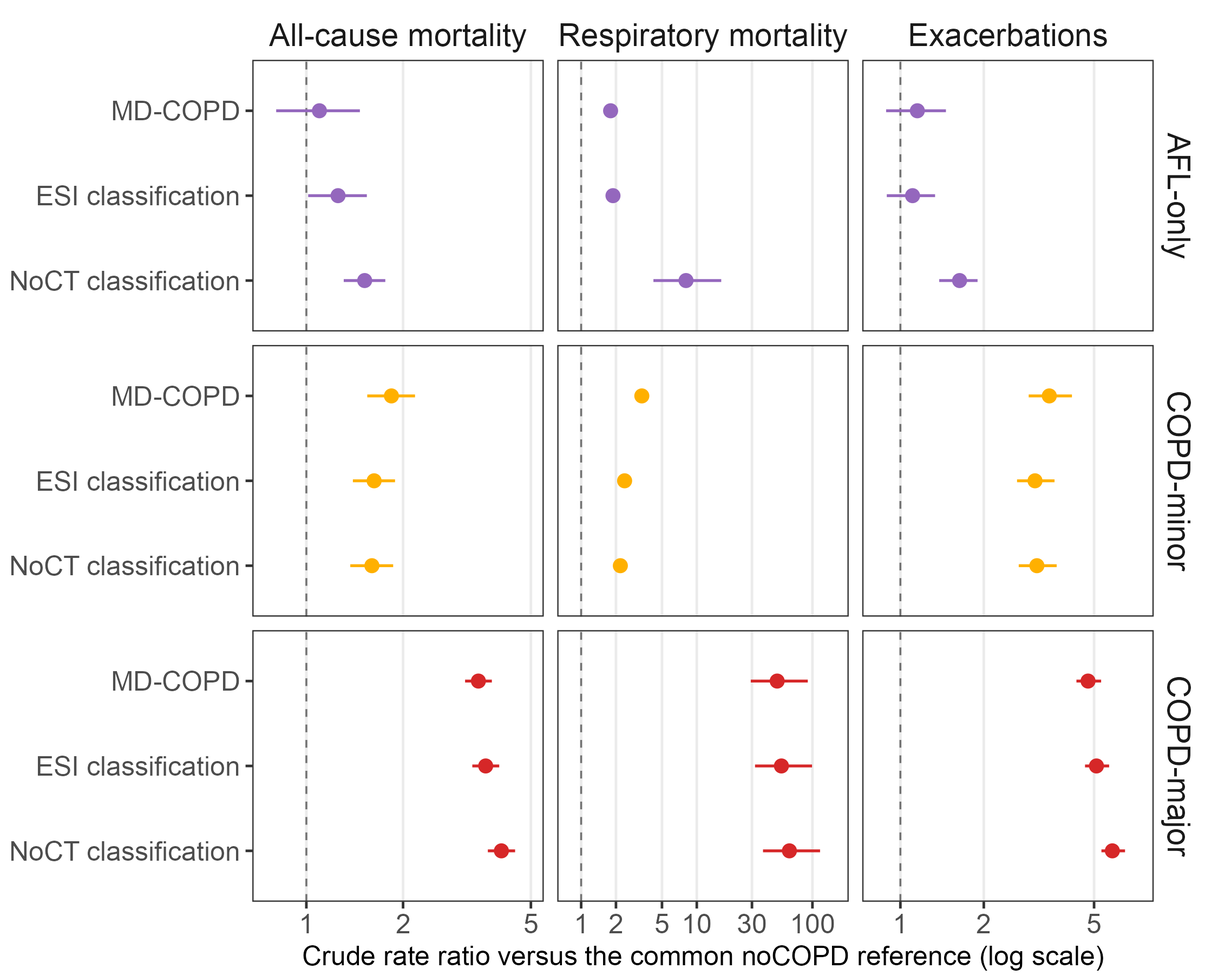
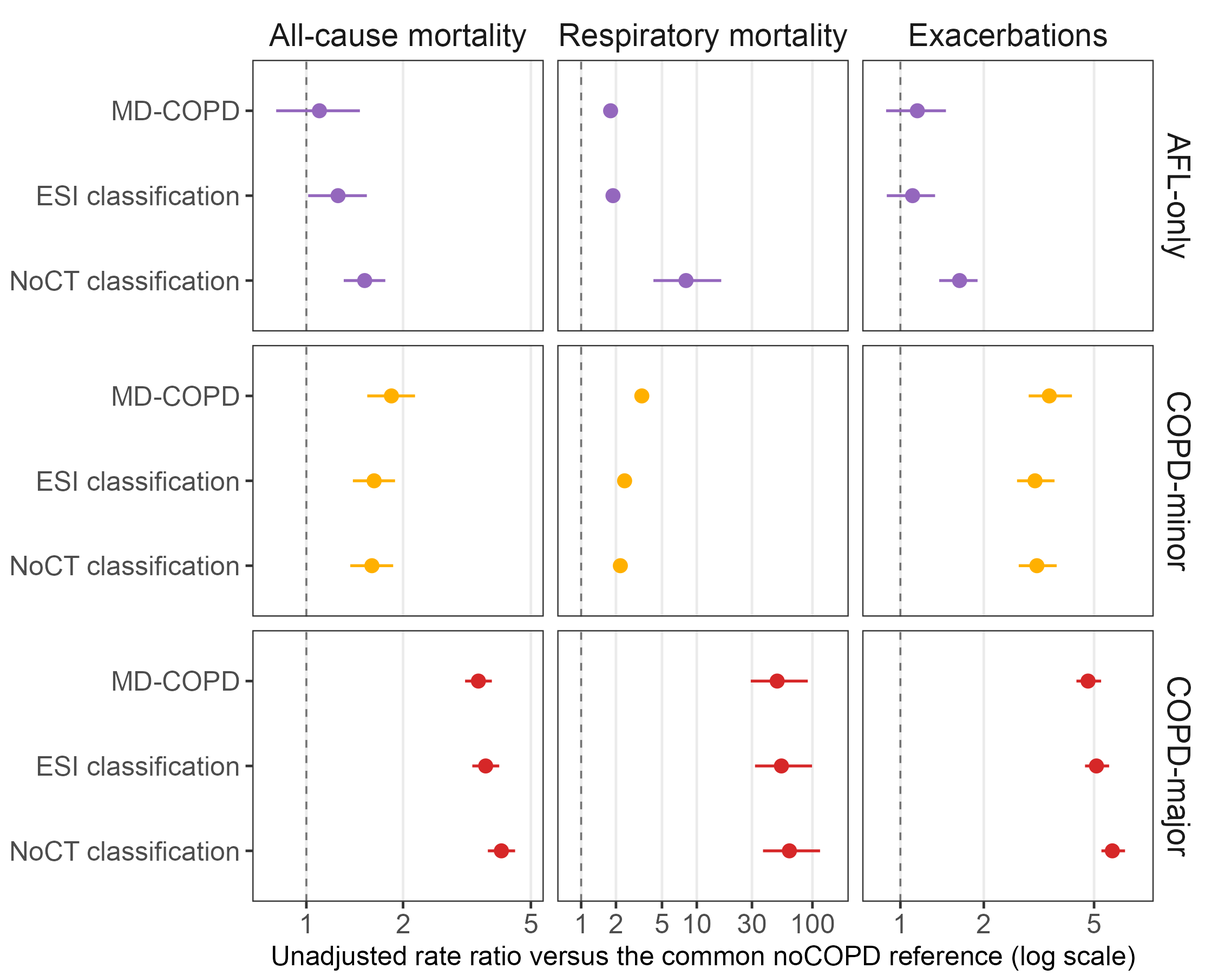
ctfree: COPD minor and major comparisons; P values and 'unadjusted' as Pete writes them
- Results: new paragraph comparing NoCT and ESI with MD-COPD for COPD-minor
  and COPD-major, unadjusted and adjusted, after the AFL-only paragraph;
  Pete's AFL-only edits ported.
- P values spaced ("P = 0.006"), with values below 0.005 shown as
  "P < 0.005", through one shared formatter used by Tables S4, S5, S6 and
  the S3 legend. Supplemental Figure S2 keeps its significance stars.
- "Crude" becomes "unadjusted" in the text, table titles and legends, and
  the Figure 3, 4 and S1 axes and legends.
- verify.R: 224 claims, including the COPD-minor and COPD-major numbers.

Changed region(s): [[0.2178, 0.9644, 0.9333, 0.9956]]

diff --git a/ctfree/build_supplement.py b/ctfree/build_supplement.py
@@ -31,7 +31,7 @@ from docx.enum.text import WD_ALIGN_PARAGRAPH, WD_TAB_ALIGNMENT, WD_TAB_LEADER  
 from docx.oxml import OxmlElement                            # noqa: E402
 from docx.oxml.ns import qn                                  # noqa: E402
 from build_manuscript import (init_document, add_table, legend,  # noqa: E402
-                              emphasis, ASSETS, CATS, read_titlepage,
+                              emphasis, ASSETS, CATS, read_titlepage, fmt_p,
                               t_risk_common_ref, t_discord_risk, Section,
                               add_figure, read_legend, figure_width, FIGS,
                               CONTENT_WIDTH_IN, new_section)
@@ -125,17 +125,17 @@ def supp_methods(doc):
               "considered present for MD-COPD only when definite (score 2). Participants with "
               "missing visual CT scores (n = 4) were considered not to meet the corresponding "
               "imaging criterion.")
-    para(doc, "**Crude outcome comparisons and bootstrap procedures**")
-    para(doc, "Crude rate ratios were calculated by dividing the observed event rate in each "
+    para(doc, "**Unadjusted outcome comparisons and bootstrap procedures**")
+    para(doc, "Unadjusted rate ratios were calculated by dividing the observed event rate in each "
               "diagnostic group (events per 100 person-years) by that of the corresponding reference "
               "group. For mortality, "
               "95% confidence intervals were calculated as exact conditional intervals for the "
               "ratio of two Poisson rates. For respiratory exacerbations, 95% confidence "
               "intervals were obtained from 1,000 subject-level bootstrap resamples, with the "
               "reference rate recalculated in each resample. When either the diagnostic group "
-              "or the reference group had fewer than 10 events, crude rates or rate ratios "
+              "or the reference group had fewer than 10 events, unadjusted rates or rate ratios "
               "were reported without confidence intervals.")
-    para(doc, "For direct comparisons among classifications, the crude event rate in each "
+    para(doc, "For direct comparisons among classifications, the unadjusted event rate in each "
               "NoCT and ESI group was divided by that in the corresponding MD-COPD group (rate "
               "ratio versus MD-COPD), and its adjusted HR or IRR by that of the corresponding "
               "MD-COPD group (ratio of HRs or IRRs). Confidence intervals and P values for these "
@@ -250,7 +250,7 @@ def s6_fev1_decline(doc, num):
                      f"{int(r['n_subj']):,}",
                      f"{float(r['est_mL_yr']):.1f} "
                      f"({float(r['lo']):.1f} to {float(r['hi']):.1f})",
-                     "<0.001" if p_ < 0.001 else f"{p_:.3f}"])
+                     fmt_p(p_)])
         seen.add(sc)
     add_table(doc, ["Classification", "Group", "n",
                     "Difference in decline, mL/yr (95% CI)", "P"],
@@ -287,10 +287,8 @@ def s_crossclass_agreement(doc, num):
                     "Assigned, n", "Sensitivity, %", "PPV, %", "F1"],
               rows, [1.05, 0.78, 0.58, 0.58, 0.58, 0.58, 0.60, 0.62, 0.55, 0.58])
     ps = [float(ag[c]["p_boot"]) for c in CATS]
-    floor_p = 2 / min(int(ag[c]["B_eff"]) for c in CATS)
-    p_txt = (f"P < {floor_p:.3f} in each of the four groups" if all(p == 0 for p in ps)
-             else "; ".join(f"{c} P < {floor_p:.3f}" if p == 0 else f"{c} P = {p:.3f}"
-                            for c, p in zip(CATS, ps)))
+    p_txt = ("P < 0.005 in each of the four groups" if all(p < 0.005 for p in ps)
+             else "; ".join(f"{c} P {'< 0.005' if p < 0.005 else '= ' + fmt_p(p)}" for c, p in zip(CATS, ps)))
     legend(doc, f"Table {num}.",
            "Each CT-free classification cross-classified against MD-COPD. Rows are the "
            "category each classification assigned, columns the MD-COPD category, and the "
@@ -309,7 +307,7 @@ def s_groups_crude(doc, num):
     classification against the common reference, and each CT-free
     classification against MD-COPD by a paired bootstrap. Crude only
     (Pete, 2026-09-11); all three groups (Pete, 2026-09-13)."""
-    heading(doc, f"Supplemental Table {num}. Crude risk of clinical outcomes by diagnostic "
+    heading(doc, f"Supplemental Table {num}. Unadjusted risk of clinical outcomes by diagnostic "
                  "group under each multidimensional classification")
     cru = {(r["schema"], r["category"], r["outcome"]): r for r in load(ASSETS, "consensus_ref_crude.csv")}
     cmp_ = {(r["schema"], r["category"], r["outcome"]): r for r in load(ASSETS, "group_vs_mdcopd.csv")
@@ -339,7 +337,7 @@ def s_groups_crude(doc, num):
                 else:
                     p_ = float(x["p_boot"]); floor = 2 / int(x["B_eff"])
                     vs = ci(x["ratio_of_ratios"], x["lo"], x["hi"])
-                    pt = f"<{floor:.3f}" if p_ == 0 else (f"{p_:.3f}" if p_ < 0.1 else f"{p_:.2f}")
+                    pt = fmt_p(p_)
                 rows.append([lead, NM[s_], f"{int(float(r['events'])):,}", rate, own, vs, pt])
     add_table(doc, ["Outcome", "Classification", "Events", "Rate per 100 person-years",
                     "Rate ratio versus the common reference (95% CI)",
@@ -348,7 +346,7 @@ def s_groups_crude(doc, num):
     legend(doc, f"Table {num}.",
            "Each diagnostic group was compared with the common reference comprising the "
            f"{int(ref['n_cohort']):,} participants classified as noCOPD by all three "
-           "multidimensional classifications. Rates are events per 100 person-years. Crude rate "
+           "multidimensional classifications. Rates are events per 100 person-years. Unadjusted rate "
            "ratios were calculated as the event rate in each group divided by that in the "
            "common reference, with "
            "exact Poisson confidence intervals for mortality and subject-level bootstrap "

diff --git a/ctfree/build_manuscript.py b/ctfree/build_manuscript.py
@@ -159,6 +159,13 @@ def set_cell_margins(tbl, inches):
         el.set(qn("w:type"), "dxa")
 
 
+def fmt_p(p):
+    """P values as Pete writes them (2026-09-24): below 0.005 as '< 0.005',
+    otherwise three decimals under 0.1 and two above."""
+    p = float(p)
+    return "< 0.005" if p < 0.005 else (f"{p:.3f}" if p < 0.1 else f"{p:.2f}")
+
+
 class Section(str):
     """A table row that names the group of rows beneath it, spanning every column."""
 
@@ -309,7 +316,7 @@ def t_risk_common_ref(doc, label="Table 3."):
                 else:
                     p_ = float(x["p_boot"]); floor = 2 / int(x["B_eff"])
                     vs = ci(x["ratio_of_ratios"], x["lo"], x["hi"])
-                    pt = f"<{floor:.3f}" if p_ == 0 else (f"{p_:.3f}" if p_ < 0.1 else f"{p_:.2f}")
+                    pt = fmt_p(p_)
                 rows.append([lead, NM[s_], events, own, vs, pt])
     add_table(doc, ["Outcome", "Classification", "Events",
                     "HR or IRR versus the common reference (95% CI)",
@@ -324,7 +331,7 @@ def t_risk_common_ref(doc, label="Table 3."):
            "additionally adjusted for baseline exacerbation frequency. Ratios versus MD-COPD "
            "divide the HR or IRR of each CT-free classification's group by that of the "
            "corresponding MD-COPD group; 95% confidence intervals and two-sided P values were "
-           "obtained from 1,000 paired subject-level bootstrap resamples. Corresponding crude "
+           "obtained from 1,000 paired subject-level bootstrap resamples. Corresponding unadjusted "
            f"rate ratios are shown in Supplemental Table {supp_num('groups_vs_mdcopd')}. "
            f"{FLAG} Fewer than 10 events in the group, or in either group for comparisons with "
            "MD-COPD; the estimate is shown without a confidence interval or P value. "
@@ -379,7 +386,7 @@ def t_discord_risk(doc, label="Table 4."):
            "strata defined by airflow-limitation status. Among participants with preserved "
            "spirometry, those classified as noCOPD by both approaches served as the reference; "
            "among participants with airflow limitation, those classified as AFL-only by both "
-           "approaches served as the reference. Crude rate ratios are the event rate (events per "
+           "approaches served as the reference. Unadjusted rate ratios are the event rate (events per "
            "100 person-years) in each group divided by that in the corresponding reference; confidence "
            "intervals are exact Poisson intervals for mortality and subject-level bootstrap "
            "intervals for respiratory exacerbations. CT-only-COPD = classified as COPD by "

diff --git a/ctfree/RESULTS.md b/ctfree/RESULTS.md
@@ -15,15 +15,17 @@ Mean ESI increased progressively with visually assessed emphysema severity, from
 
 ## Agreement between MD-COPD and CT-free classifications
 
-Cross-classification with MD-COPD is shown in Figure 2 and Table S3. Overall agreement was 89.0% (8,222 of 9,240) for ESI and 85.0% (7,852 of 9,240) for NoCT (P<0.005). Positive predictive values were >97% for noCOPD and COPD-major with both classifications and were similar for COPD-minor (58.8% with ESI vs 60.4% with NoCT). The largest difference was in AFL-only (35.5% vs 24.8%, respectively; P<0.002). Both CT-free classifications assigned more participants to AFL-only than the 275 assigned by MD-COPD. Of the 543 AFL-only participants under ESI, 193 were AFL-only and 350 were COPD-major under MD-COPD, compared with 275 and 833 of the 1,108 under NoCT (Figure 2; Table S3). Sensitivity for the MD-COPD AFL-only category was 70.2% with ESI and 100% with NoCT, the latter because the NoCT minor criteria are a subset of those of MD-COPD; for COPD-major the corresponding values were 90.8% and 78.1%. Thus, the main difference between the NoCT and ESI classifications was among participants with airflow limitation: without CT criteria, NoCT moved 833 MD-COPD COPD-major participants into AFL-only, whereas ESI kept 483 of them in COPD-major.
+Cross-classification with MD-COPD is shown in Figure 2 and Table S3. Overall agreement was 89.0% (8,222 of 9,240) for ESI and 85.0% (7,852 of 9,240) for NoCT (P < 0.005). Positive predictive values were >97% for noCOPD and COPD-major with both classifications and were similar for COPD-minor (58.8% with ESI vs 60.4% with NoCT). The largest difference was in AFL-only (35.5% vs 24.8%, respectively; P < 0.005). Both CT-free classifications assigned more participants to AFL-only than the 275 assigned by MD-COPD. Of the 543 AFL-only participants under ESI, 193 were AFL-only and 350 were COPD-major under MD-COPD, compared with 275 and 833 of the 1,108 under NoCT (Figure 2; Table S3). Sensitivity for the MD-COPD AFL-only category was 70.2% with ESI and 100% with NoCT, the latter because the NoCT minor criteria are a subset of those of MD-COPD; for COPD-major the corresponding values were 90.8% and 78.1%. Thus, the main difference between the NoCT and ESI classifications was among participants with airflow limitation: without CT criteria, NoCT moved 833 MD-COPD COPD-major participants into AFL-only, whereas ESI kept 483 of them in COPD-major.
 
 ## Clinical outcomes
 
 Median follow-up was 10.8 years for mortality, 10.4 years for exacerbations, and 9.7 years for lung function decline. COPD-minor and COPD-major were associated with increased all-cause mortality and exacerbation risk under all three classifications, with higher estimates in COPD-major (Figure 3; Tables S4 and S5; Figure S1).
 
-Differences among classifications were most apparent in AFL-only. All-cause mortality was 2.29 deaths per 100 person-years in NoCT-defined AFL-only against 1.66 in MD-COPD AFL-only (rate ratio, 1.38; 95% CI, 1.10–1.77; P=0.002), and exacerbations were 19.5 against 13.7 per 100 person-years (rate ratio, 1.42; 95% CI, 1.15–1.79; P<0.002). In ESI-defined AFL-only, the corresponding rates of 1.90 and 13.2 did not differ from MD-COPD (rate ratios, 1.14; 95% CI, 0.91–1.44; P=0.25 and 0.96; 95% CI, 0.78–1.21; P=0.73) (Table S4). After adjustment, exacerbations remained higher in NoCT-defined than in MD-COPD AFL-only (ratio of IRRs, 1.33; 95% CI, 1.07–1.70; P=0.008), whereas the difference in all-cause mortality was no longer significant (ratio of HRs, 1.22; 95% CI, 0.97–1.55; P=0.098); ESI-defined AFL-only again did not differ from MD-COPD (ratio of HRs, 1.03; 95% CI, 0.82–1.31; P=0.79; ratio of IRRs, 0.92; 95% CI, 0.73–1.17; P=0.49) (Table S5; Figure S1). Respiratory deaths were too few for comparison with MD-COPD (2 in MD-COPD, 4 in ESI-defined and 34 in NoCT-defined AFL-only). Removing the CT criteria therefore produced an AFL-only group with higher exacerbation rates and, in crude comparisons, higher mortality than that of MD-COPD, whereas substituting ESI produced a more similar AFL-only group whose risk profile was not significantly different from MD-COPD AFL-only.
+Differences among classifications were most apparent in AFL-only. All-cause mortality was 2.29 deaths per 100 person-years in NoCT-defined AFL-only against 1.66 in MD-COPD AFL-only (rate ratio, 1.38; 95% CI, 1.10–1.77; P < 0.005), and exacerbations were 19.5 against 13.7 per 100 person-years (rate ratio, 1.42; 95% CI, 1.15–1.79; P < 0.005). In ESI-defined AFL-only, the corresponding rates of 1.90 and 13.2 did not differ from MD-COPD (rate ratios, 1.14; 95% CI, 0.91–1.44; P = 0.25 and 0.96; 95% CI, 0.78–1.21; P = 0.73) (Table S4). After adjustment, exacerbations remained higher in NoCT-defined than in MD-COPD AFL-only (ratio of IRRs, 1.33; 95% CI, 1.07–1.70; P = 0.008), whereas the difference in all-cause mortality was no longer significant (ratio of HRs, 1.22; 95% CI, 0.97–1.55; P = 0.098); ESI-defined AFL-only again did not differ from MD-COPD (ratio of HRs, 1.03; 95% CI, 0.82–1.31; P = 0.79; ratio of IRRs, 0.92; 95% CI, 0.73–1.17; P = 0.49) (Table S5; Figure S1). Respiratory deaths were too few for comparison with MD-COPD (2 in MD-COPD, 4 in ESI-defined and 34 in NoCT-defined AFL-only). Removing the CT criteria therefore produced an AFL-only group with higher exacerbation rates and, in unadjusted comparisons, higher mortality than that of MD-COPD, whereas substituting ESI produced a more similar AFL-only group whose risk profile was not significantly different from MD-COPD AFL-only.
 
-Longitudinal FEV₁ decline differed across diagnostic pathways (Table S6). COPD-major showed greater decline than the common noCOPD reference under all three classifications (−5.3, −5.1, and −5.0 mL/yr with MD-COPD, NoCT, and ESI). Greater decline in COPD-minor was observed with MD-COPD (−4.5 mL/yr; P=0.007) but not with NoCT or ESI (−0.1 mL/yr for both), whereas in AFL-only it was observed with NoCT (−4.9 mL/yr) and ESI (−4.3 mL/yr) but not with MD-COPD (−2.7 mL/yr; P=0.22).
+In COPD-minor and COPD-major, the CT-free groups also differed from the corresponding MD-COPD groups, in opposite directions. All-cause mortality and exacerbation rates in COPD-minor were lower under NoCT (rate ratios, 0.87; 95% CI, 0.79–0.95; P = 0.006 and 0.90; 95% CI, 0.83–0.99; P = 0.036) and ESI (0.88; 95% CI, 0.80–0.97; P = 0.008 and 0.89; 95% CI, 0.81–0.98; P = 0.016) than under MD-COPD (Table S4), but not after adjustment (ratios of HRs and IRRs, 0.92 to 0.95; P = 0.096 to 0.27) (Table S5). Respiratory deaths in COPD-minor were too few for comparison with MD-COPD (8 under MD-COPD, 8 under NoCT, and 9 under ESI). In COPD-major, all-cause mortality, respiratory mortality, and exacerbations were higher than under MD-COPD in both unadjusted and adjusted comparisons, by 17% to 29% under NoCT and by 5% to 9% under ESI (all P < 0.005) (Tables S4 and S5). These higher estimates follow from how the CT-free COPD-major groups were formed: removing CT reassigned 833 MD-COPD COPD-major participants to AFL-only under NoCT and 350 under ESI, and the reassigned participants had lower risk than those who remained (all-cause rate ratio versus the common reference, 1.67 for the 833 reassigned under NoCT against 4.05 for the 2,976 who remained).
+
+Longitudinal FEV₁ decline differed across diagnostic pathways (Table S6). COPD-major showed greater decline than the common noCOPD reference under all three classifications (−5.3, −5.1, and −5.0 mL/yr with MD-COPD, NoCT, and ESI). Greater decline in COPD-minor was observed with MD-COPD (−4.5 mL/yr; P = 0.007) but not with NoCT or ESI (−0.1 mL/yr for both), whereas in AFL-only it was observed with NoCT (−4.9 mL/yr) and ESI (−4.3 mL/yr) but not with MD-COPD (−2.7 mL/yr; P = 0.22).
 
 ## Discordant MD-COPD and ESI classifications
 

diff --git a/ctfree/METHODS.md b/ctfree/METHODS.md
@@ -33,7 +33,7 @@ Overall agreement with MD-COPD was compared between NoCT and ESI using McNemar's
 
 Associations with all-cause and respiratory mortality were assessed using Cox proportional hazards models and respiratory exacerbations using negative binomial regression with follow-up time as an offset. Models were adjusted for age, sex, race, current smoking, pack-years, and body mass index; exacerbation models were additionally adjusted for baseline exacerbation frequency.
 
-For comparisons across classifications, AFL-only, COPD-minor, and COPD-major were compared with a common reference group classified as noCOPD by all three multidimensional classifications. Crude rate ratios, the event rate per 100 person-years in each group divided by that in the reference, and adjusted hazard ratios (HRs) or incidence rate ratios (IRRs) were estimated. Each NoCT and ESI group was compared with the corresponding MD-COPD group as a rate ratio for crude event rates and as a ratio of HRs or IRRs for adjusted estimates, with confidence intervals and P values from 1,000 paired subject-level bootstrap resamples.
+For comparisons across classifications, AFL-only, COPD-minor, and COPD-major were compared with a common reference group classified as noCOPD by all three multidimensional classifications. Unadjusted rate ratios, the event rate per 100 person-years in each group divided by that in the reference, and adjusted hazard ratios (HRs) or incidence rate ratios (IRRs) were estimated. Each NoCT and ESI group was compared with the corresponding MD-COPD group as a rate ratio for unadjusted event rates and as a ratio of HRs or IRRs for adjusted estimates, with confidence intervals and P values from 1,000 paired subject-level bootstrap resamples.
 
 Discordance between ESI and MD-COPD was examined separately in participants with and without airflow limitation. Participants classified as noCOPD by both approaches served as the reference group with preserved spirometry, and those classified as AFL-only by both approaches with airflow limitation. ESI and %LAA-950HU were compared between discordant groups using the Wilcoxon rank-sum test and minor-criterion prevalence using Fisher's exact test.
 
@@ -41,4 +41,4 @@ The ability of ESI to discriminate visual emphysema and definite airway wall thi
 
 Annualized FEV₁ change was estimated using linear mixed-effects models with participant-specific random intercepts, adjusted for height, sex, race, age, smoking status, pack-years, and baseline post-bronchodilator FEV₁. Differences between corresponding NoCT and ESI groups were assessed using 1,000 paired subject-level bootstrap resamples.
 
-Additional details on statistical procedures, including confidence-interval estimation for crude outcome comparisons and handling of groups with fewer than 10 events, are provided in the Supplemental Methods. Analyses were performed in R version 4.5.2.
+Additional details on statistical procedures, including confidence-interval estimation for unadjusted outcome comparisons and handling of groups with fewer than 10 events, are provided in the Supplemental Methods. Analyses were performed in R version 4.5.2.

diff --git a/ctfree/figures/figure4_discord_risk_legend.md b/ctfree/figures/figure4_discord_risk_legend.md
@@ -1,3 +1,3 @@
 **Figure 4. Clinical outcomes according to concordance and discordance between MD-COPD and ESI classifications.**
 
-Crude rate ratios for all-cause mortality and exacerbations, with 95% confidence intervals, for the three groups either classification calls COPD, within each stratum of airflow limitation. The crude rate ratio is the event rate (events per 100 person-years) in the group divided by that in the stratum reference. Reference groups are the participants classified as noCOPD by both methods among those with preserved spirometry (top row) and participants classified as AFL-only by both methods among those with airflow limitation (bottom row). Intervals are exact Poisson intervals for deaths and subject-bootstrap intervals for exacerbations. CT-only = diagnosed as COPD under MD-COPD only; ESI-only = diagnosed as COPD under the ESI classification only; Both-COPD = diagnosed as COPD under both; AFL-only = airflow limitation without other criteria. Respiratory mortality is not shown because the numbers of respiratory deaths are too small for estimation.
+Unadjusted rate ratios for all-cause mortality and exacerbations, with 95% confidence intervals, for the three groups either classification calls COPD, within each stratum of airflow limitation. The unadjusted rate ratio is the event rate (events per 100 person-years) in the group divided by that in the stratum reference. Reference groups are the participants classified as noCOPD by both methods among those with preserved spirometry (top row) and participants classified as AFL-only by both methods among those with airflow limitation (bottom row). Intervals are exact Poisson intervals for deaths and subject-bootstrap intervals for exacerbations. CT-only = diagnosed as COPD under MD-COPD only; ESI-only = diagnosed as COPD under the ESI classification only; Both-COPD = diagnosed as COPD under both; AFL-only = airflow limitation without other criteria. Respiratory mortality is not shown because the numbers of respiratory deaths are too small for estimation.

diff --git a/ctfree/figures/figureS1_group_risk_legend.md b/ctfree/figures/figureS1_group_risk_legend.md
@@ -1,3 +1,3 @@
-**Supplemental Figure S1. Crude and adjusted risk of each diagnostic group under the three multidimensional classifications.**
+**Supplemental Figure S1. Unadjusted and adjusted risk of each diagnostic group under the three multidimensional classifications.**
 
-Crude rate ratios (open circles) and adjusted hazard ratios or incidence rate ratios (filled circles), with 95% confidence intervals, for each diagnostic group (rows) under MD-COPD, the ESI classification and the NoCT classification, for all-cause mortality, respiratory mortality and exacerbations (columns), against a common reference of the 3,856 participants assigned to noCOPD by all three classifications. The x axis is on a log scale and differs between columns. Hazard ratios (mortality) and incidence rate ratios (exacerbations) are from models carrying age, sex, race, current smoking status, pack-years and body mass index, with prior exacerbation frequency added for exacerbations. A point drawn without an interval had fewer than 10 events in that group, so no interval was estimated. AFL-only = airflow limitation without other criteria.
+Unadjusted rate ratios (open circles) and adjusted hazard ratios or incidence rate ratios (filled circles), with 95% confidence intervals, for each diagnostic group (rows) under MD-COPD, the ESI classification and the NoCT classification, for all-cause mortality, respiratory mortality and exacerbations (columns), against a common reference of the 3,856 participants assigned to noCOPD by all three classifications. The x axis is on a log scale and differs between columns. Hazard ratios (mortality) and incidence rate ratios (exacerbations) are from models carrying age, sex, race, current smoking status, pack-years and body mass index, with prior exacerbation frequency added for exacerbations. A point drawn without an interval had fewer than 10 events in that group, so no interval was estimated. AFL-only = airflow limitation without other criteria.

diff --git a/ctfree/ABSTRACT.md b/ctfree/ABSTRACT.md
@@ -9,6 +9,6 @@ Objectives. To determine whether the Emphysema Severity Index (ESI), derived fro
 
 Methods. Among 9,240 ever-smokers in COPDGene, we compared MD-COPD with modified classifications in which CT criteria were removed with no replacement (NoCT) or with ESI as a substitute (ESI classification). Risks of mortality, respiratory exacerbations, and longitudinal FEV₁ decline were assessed.
 
-Measurements and Main Results. Among participants with airflow limitation, ESI discriminated visual emphysema and definite airway wall thickening with an AUC of 0.75 for each. The NoCT classification reassigned 833 MD-COPD COPD-major participants to the AFL-only group, compared with only 350 using ESI. Relative to MD-COPD AFL-only, NoCT-defined AFL-only had higher crude all-cause mortality (rate ratio, 1.38; 95% CI, 1.10–1.77) and exacerbation rates (1.42; 95% CI, 1.15–1.79), whereas the ESI-defined AFL-only group did not differ from MD-COPD AFL-only.
+Measurements and Main Results. Among participants with airflow limitation, ESI discriminated visual emphysema and definite airway wall thickening with an AUC of 0.75 for each. The NoCT classification reassigned 833 MD-COPD COPD-major participants to the AFL-only group, compared with only 350 using ESI. Relative to MD-COPD AFL-only, NoCT-defined AFL-only had higher unadjusted all-cause mortality (rate ratio, 1.38; 95% CI, 1.10–1.77) and exacerbation rates (1.42; 95% CI, 1.15–1.79), whereas the ESI-defined AFL-only group did not differ from MD-COPD AFL-only.
 
 Conclusions. When CT is unavailable, removing its criteria from MD-COPD loses clinically relevant information. Incorporating ESI recovers part of this information, particularly among participants with airflow limitation, without requiring a test beyond conventional spirometry.

diff --git a/ctfree/figures/figure2_flow_legend.md b/ctfree/figures/figure2_flow_legend.md
@@ -1,3 +1,3 @@
 **Figure 2. Reclassification of MD-COPD categories by the CT-free classifications.**
 
-(A) Participant flow from MD-COPD (center) to the NoCT classification (left) and the ESI classification (right). Column heights and ribbon widths are proportional to participant counts. Ribbons are colored by MD-COPD category, solid color where the participant changes category and pale where it agrees. (B) The NoCT classification cross-classified against MD-COPD. Rows are MD-COPD categories and columns the NoCT classification; diagonal cells, which agree, are shaded in the category color with depth proportional to count, and off-diagonal cells are white. (C) The ESI classification cross-classified against MD-COPD, laid out as in (B). Overall, the ESI classification agreed with MD-COPD for 8,222 of 9,240 participants (89.0%) and the NoCT classification for 7,852 (85.0%) (McNemar P < 0.001). AFL-only = airflow limitation without other criteria.
+(A) Participant flow from MD-COPD (center) to the NoCT classification (left) and the ESI classification (right). Column heights and ribbon widths are proportional to participant counts. Ribbons are colored by MD-COPD category, solid color where the participant changes category and pale where it agrees. (B) The NoCT classification cross-classified against MD-COPD. Rows are MD-COPD categories and columns the NoCT classification; diagonal cells, which agree, are shaded in the category color with depth proportional to count, and off-diagonal cells are white. (C) The ESI classification cross-classified against MD-COPD, laid out as in (B). Overall, the ESI classification agreed with MD-COPD for 8,222 of 9,240 participants (89.0%) and the NoCT classification for 7,852 (85.0%) (McNemar P < 0.005). AFL-only = airflow limitation without other criteria.

diff --git a/ctfree/figures/figure3_group_risk_legend.md b/ctfree/figures/figure3_group_risk_legend.md
@@ -1,3 +1,3 @@
-**Figure 3. Crude risk of clinical outcomes by diagnostic group under the three multidimensional classifications.**
+**Figure 3. Unadjusted risk of clinical outcomes by diagnostic group under the three multidimensional classifications.**
 
-Crude rate ratios with 95% confidence intervals for each diagnostic group (rows) under MD-COPD, the ESI classification and the NoCT classification, for all-cause mortality, respiratory mortality and exacerbations (columns), against a common reference of the 3,856 participants assigned to noCOPD by all three classifications. The x axis is on a log scale and differs between columns. The crude rate ratio is the event rate (events per 100 person-years) in the group divided by that in the reference. A point drawn without an interval had fewer than 10 events in that group, so no interval was estimated. Adjusted hazard ratios and incidence rate ratios are shown in Supplemental Figure S1. AFL-only = airflow limitation without other criteria.
+Unadjusted rate ratios with 95% confidence intervals for each diagnostic group (rows) under MD-COPD, the ESI classification and the NoCT classification, for all-cause mortality, respiratory mortality and exacerbations (columns), against a common reference of the 3,856 participants assigned to noCOPD by all three classifications. The x axis is on a log scale and differs between columns. The unadjusted rate ratio is the event rate (events per 100 person-years) in the group divided by that in the reference. A point drawn without an interval had fewer than 10 events in that group, so no interval was estimated. Adjusted hazard ratios and incidence rate ratios are shown in Supplemental Figure S1. AFL-only = airflow limitation without other criteria.
